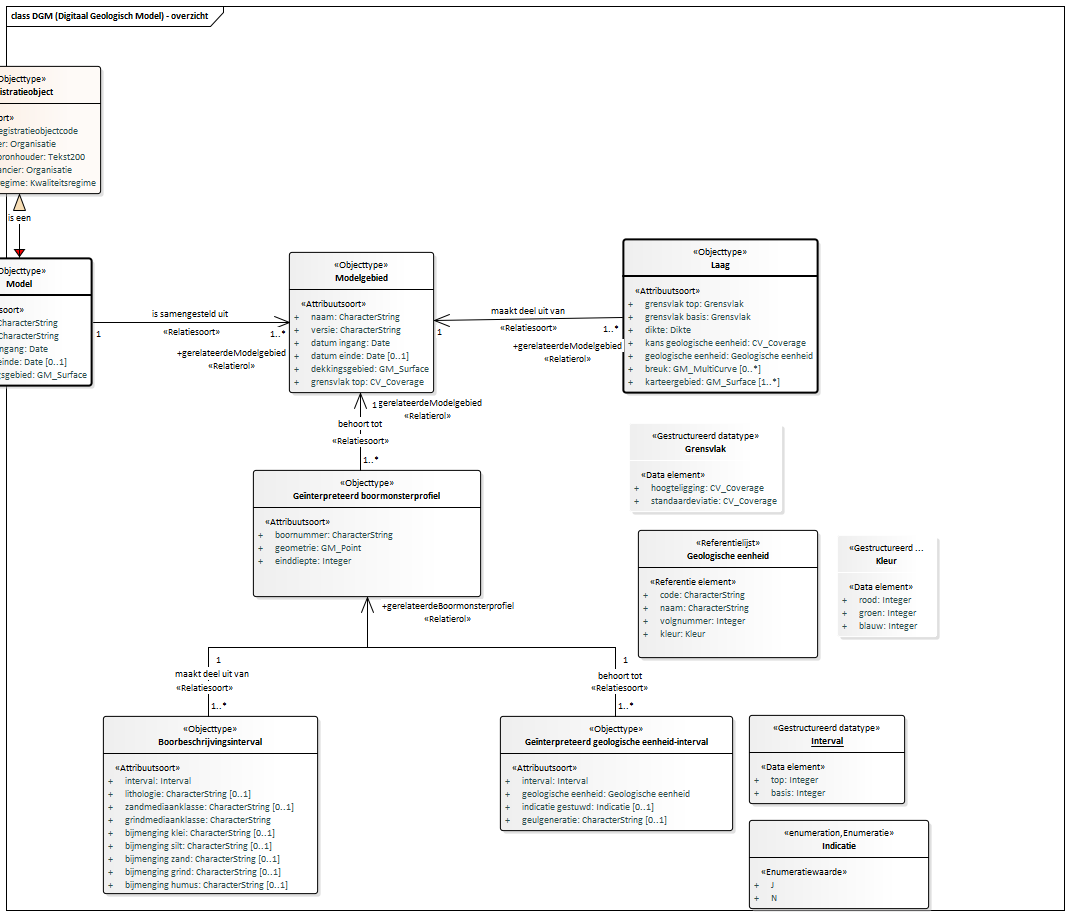
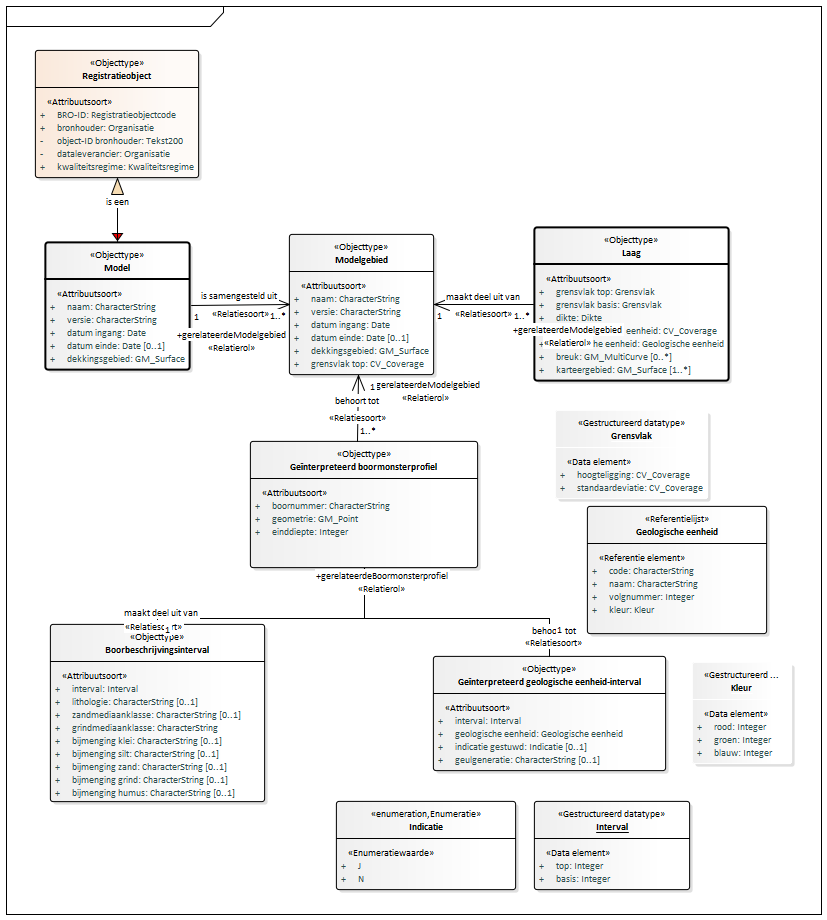
DGM-BRODGM-0.4-1-20180925-20181112-160554

Changed region(s): [[0.0, 0.0, 0.9371, 1.0], [0.9674, 0.0306, 0.9976, 0.9782]]

diff --git a/data/DGM-cat.html b/data/DGM-cat.html
@@ -1,24 +1,24 @@
 <h2>Catalogus</h2>
 <p class="note" title="Over deze catalogus">
    Deze catalogus is automatisch samengesteld op basis van het UML model 
-   "BRO:DGM" door Imvertor 1.47.6 op November 12, 2018 at 12:03:46.
+   "BRO:DGM" door Imvertor 1.47.6 op November 12, 2018 at 15:05:52.
    <br>
    Wanneer je technische fouten of onvolkomenheden aantreft, geef dit dan door aan <i></i> en geef de code 
-   <i>"DGM-BRODGM-0.4-1-20180925-20181112-130348"</i> door. 
+   <i>"DGM-BRODGM-0.4-1-20180925-20181112-160554"</i> door. 
    
 </p>
 <div class="imageinfo overview"><img src="data/Images/EAID_F5C182FD_0FDF_4a8e_8743_45661AAB7289.png" usemap="#imagemap-EAID_F5C182FD_0FDF_4a8e_8743_45661AAB7289"><map name="imagemap-EAID_F5C182FD_0FDF_4a8e_8743_45661AAB7289">
-      <area shape="rect" coords="629,512,782,423" alt="" href="#graph_EAID_5D88BF5A_A509_4a0b_BD04_54939778DF23">
-      <area shape="rect" coords="623,393,818,239" alt="" href="#graph_EAID_693FE0BB_8597_4519_AEB5_C3F00FF68EC3">
-      <area shape="rect" coords="837,637,937,535" alt="" href="#graph_EAID_E1543714_7244_4890_A02C_CE669BBD62B3">
-      <area shape="rect" coords="749,804,905,715" alt="" href="#graph_EAID_A872E101_2289_4f83_8BB5_C6802D6604FA">
-      <area shape="rect" coords="103,894,318,716" alt="" href="#graph_EAID_EABACEC5_67CE_4c7d_B6D9_697C45934660">
-      <area shape="rect" coords="749,909,929,820" alt="" href="#graph_EAID_59E5F7F9_781C_4607_94B9_F605E5DEBCA5">
-      <area shape="rect" coords="253,597,481,470" alt="" href="#graph_EAID_60D3E745_BE53_4980_9810_351C8ED7ABB1">
-      <area shape="rect" coords="-53,386,92,258" alt="" href="#graph_EAID_1E343B19_582D_4d7c_8649_5B8B6F8FC3FB">
-      <area shape="rect" coords="289,393,434,252" alt="" href="#graph_EAID_49820BC8_E8A9_4c8e_89AD_75B8323E83A1">
-      <area shape="rect" coords="638,658,818,530" alt="" href="#graph_EAID_1A52927C_A9EC_4958_91B4_84080986A8FD">
-      <area shape="rect" coords="500,831,733,716" alt="" href="#graph_EAID_EF8EC97C_E5D3_4b73_838D_2A7674DBBA82"></map><p><b>DGM (Digitaal Geologisch Model) - overzicht</b></p>
+      <area shape="rect" coords="555,499,708,410" alt="" href="#graph_EAID_5D88BF5A_A509_4a0b_BD04_54939778DF23">
+      <area shape="rect" coords="534,381,729,227" alt="" href="#graph_EAID_693FE0BB_8597_4519_AEB5_C3F00FF68EC3">
+      <area shape="rect" coords="692,764,792,662" alt="" href="#graph_EAID_E1543714_7244_4890_A02C_CE669BBD62B3">
+      <area shape="rect" coords="534,890,690,801" alt="" href="#graph_EAID_A872E101_2289_4f83_8BB5_C6802D6604FA">
+      <area shape="rect" coords="50,802,265,624" alt="" href="#graph_EAID_EABACEC5_67CE_4c7d_B6D9_697C45934660">
+      <area shape="rect" coords="336,890,516,801" alt="" href="#graph_EAID_59E5F7F9_781C_4607_94B9_F605E5DEBCA5">
+      <area shape="rect" coords="250,568,478,441" alt="" href="#graph_EAID_60D3E745_BE53_4980_9810_351C8ED7ABB1">
+      <area shape="rect" coords="45,370,190,242" alt="" href="#graph_EAID_1E343B19_582D_4d7c_8649_5B8B6F8FC3FB">
+      <area shape="rect" coords="289,375,434,234" alt="" href="#graph_EAID_49820BC8_E8A9_4c8e_89AD_75B8323E83A1">
+      <area shape="rect" coords="587,634,767,506" alt="" href="#graph_EAID_1A52927C_A9EC_4958_91B4_84080986A8FD">
+      <area shape="rect" coords="433,771,666,656" alt="" href="#graph_EAID_EF8EC97C_E5D3_4b73_838D_2A7674DBBA82"></map><p><b>DGM (Digitaal Geologisch Model) - overzicht</b></p>
 </div>
 <section id="">
    <h3>Objecttypen </h3>
